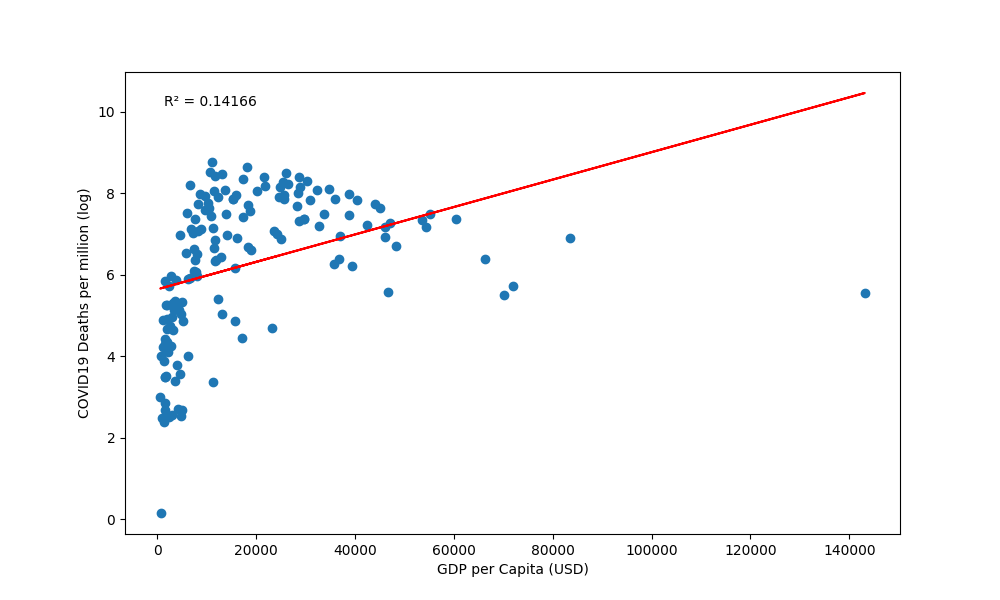
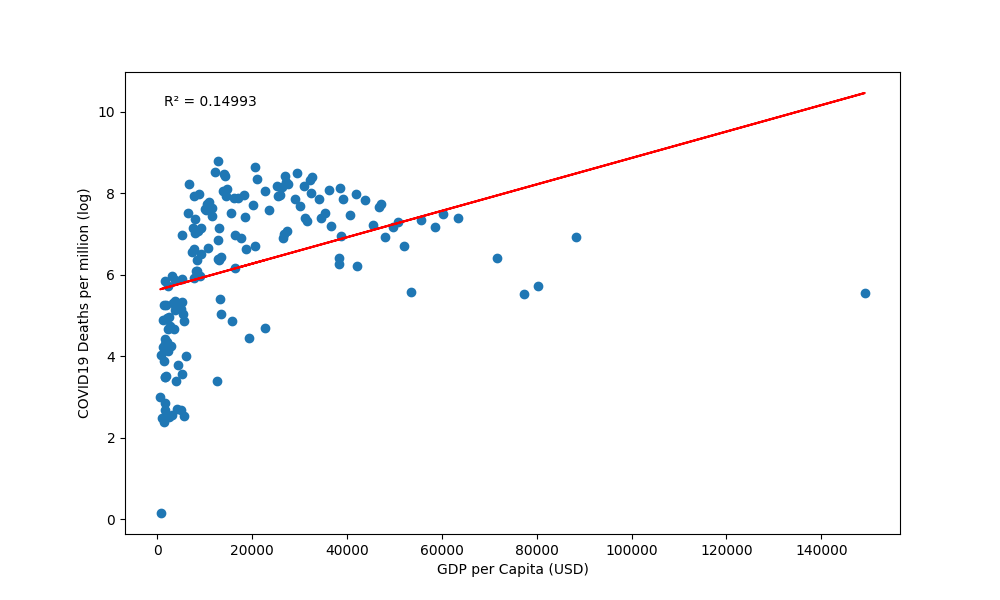
refactor: Update ANALYSIS and results for2022 population

diff --git a/ANALYSIS/Plot_other_Metrics.py b/ANALYSIS/Plot_other_Metrics.py
@@ -19,7 +19,7 @@ SDI_DATA = os.path.join(main_dir, 'Data/IHME_data/sdi_data.csv')
 
 class PLOT_OTHER_METRICS:
     def __init__(self, countries, year):
-        self.year = year
+        self.year = int(year)
         self.countries = countries
         self.Y_CASES = []
         self.Y_DEATHS = []
@@ -29,27 +29,27 @@ class PLOT_OTHER_METRICS:
             self.Y_CASES.append(np.log(data['total_cases_per_million'].values[0]))
 
         self.Median_age_data = pd.read_csv(MEDIAN_AGE_DATA)
-        self.Median_age_data = self.Median_age_data[self.Median_age_data['Year'] == int(self.year)]
+        self.Median_age_data = self.Median_age_data[self.Median_age_data['Year'] == self.year]
         self.Median_age_data.columns = ['Entity', 'Code', 'Year', 'Median age', '']
 
         self.GDP_per_capita_data = pd.read_csv(GDP_PER_CAPITA_DATA)
-        self.GDP_per_capita_data = self.GDP_per_capita_data[self.GDP_per_capita_data['Year'] == int(self.year)]
+        self.GDP_per_capita_data = self.GDP_per_capita_data[self.GDP_per_capita_data['Year'] == self.year]
         self.GDP_per_capita_data.columns = ['Entity', 'Code', 'Year', 'GDP per capita','']
 
         self.Population_density_data = pd.read_csv(POPULATION_DENSITY_DATA)
-        self.Population_density_data = self.Population_density_data[self.Population_density_data['Year'] == int(self.year)]
+        self.Population_density_data = self.Population_density_data[self.Population_density_data['Year'] == self.year]
 
         self.Human_development_index_data = pd.read_csv(HUMAN_DEVELOPMENT_INDEX_DATA)
-        self.Human_development_index_data = self.Human_development_index_data[self.Human_development_index_data['Year'] == int(self.year)]
+        self.Human_development_index_data = self.Human_development_index_data[self.Human_development_index_data['Year'] == self.year]
 
         self.Life_expectancy_data = pd.read_csv(LIFE_EXPECTANCY_DATA)
-        self.Life_expectancy_data = self.Life_expectancy_data[self.Life_expectancy_data['Year'] == int(self.year)]
+        self.Life_expectancy_data = self.Life_expectancy_data[self.Life_expectancy_data['Year'] == self.year]
         self.Life_expectancy_data.columns = ['Entity', 'Code', 'Year', 'Life expectancy']
 
         if self.year <= 2019:
             self.SDI_data = pd.read_csv(SDI_DATA, encoding="ISO-8859-1")
             #keep columns with only year 2019 and country names
-            self.SDI_data = self.SDI_data[["Location", self.year]]
+            self.SDI_data = self.SDI_data[["Location", str(self.year)]]
 
     def MEDIAN_AGE(self):
         X = []
@@ -118,7 +118,7 @@ class PLOT_OTHER_METRICS:
             if data.empty:
                 i += 1
                 continue
-            X.append(data[self.year].values[0])
+            X.append(data[str(self.year)].values[0])
             Y_CASES_filtered.append(self.Y_CASES[i])
             Y_DEATHS_filtered.append(self.Y_DEATHS[i])
             i += 1
@@ -140,7 +140,9 @@ class PLOT_OTHER_METRICS:
             Y_CASES_filtered.append(self.Y_CASES[i])
             Y_DEATHS_filtered.append(self.Y_DEATHS[i])
             i += 1
-
+        if not X:
+            print("No data found for Life Expectancy")
+            return
         self.plotter(X,Y_CASES_filtered,"Cases","Life Expectancy")
         self.plotter(X,Y_DEATHS_filtered,"Deaths","Life Expectancy")
 

diff --git a/ANALYSIS/__main__.py b/ANALYSIS/__main__.py
@@ -6,11 +6,13 @@ def main():
 
     parser.add_argument("--py", type=int, help="Year for which population data is to be created")
     parser.add_argument("--cd", type=str, help="Date for which COVID data is to be created")
+    parser.add_argument("--plot", type=str, help="Plot the data y or n")
 
     args = parser.parse_args()
+    plot = True if args.plot == 'y' or args.plot == "Y" else False
 
     analysis = ANALYSIS()
-    analysis.parser_run(args.py, args.cd)
+    analysis.parser_run(args.py, args.cd, plot)
 
 if __name__ == "__main__":
     main()

diff --git a/ANALYSIS/main.py b/ANALYSIS/main.py
@@ -68,12 +68,13 @@ class ANALYSIS:
         self.plot_pop_stat()
         self.plot_other_metrics()
 
-    def parser_run(self, pop_year, covid_date):
+    def parser_run(self, pop_year=2020, covid_date='2023-05-05', plot=True):
         POPULATION_DATA_FOR_DATE(pop_year)
         COVID_DATA_FOR_DATE(covid_date)
         self.plot_population_data()
         self.calculate_pop_stat()
-        self.plot_pop_stat()
+        if plot:
+            self.plot_pop_stat()
         self.plot_other_metrics()
 
 if __name__ == "__main__":

diff --git a/ANALYSIS/Pop_Stat_Calculation.py b/ANALYSIS/Pop_Stat_Calculation.py
@@ -120,6 +120,7 @@ class POP_STAT_CALCULATION:
             if country in self.common_countries:
                 HDI_country = self.HDI_data[country]
                 distances[country] = self.JENSEN_SHANNON_DIVERGENCE(dist, reference_dist)/HDI_country
+                # distances[country] = self.KL_DIVERGENCE(dist, reference_dist)
         return distances
 
     def find_optimal_reference(self):

diff --git a/README.md b/README.md
@@ -47,13 +47,16 @@ Pop_Pyramid
 1. On the Current Directory
     
     ```python 
-    python -m ANALYSIS --py <population year(YYYY)> --cd "<covid data (YYYY-MM-DD)>"
+    python -m ANALYSIS --py <population year(YYYY)> 
+                        --cd "<covid data (YYYY-MM-DD)>"
+                         --plot "<y/n>"
     ```
     ### Population Year as per the paper : 2020
     ### Covid Date as per the paper : 2022-04-08
+    ### Plot population pyramids : y
 
     ```python
-    python -m ANALYSIS --py 2020 --cd "2022-04-08"
+    python -m ANALYSIS --py 2020 --cd "2022-04-08" --plot "y"
     ```
 
 2. Or just simply run the main.py file
